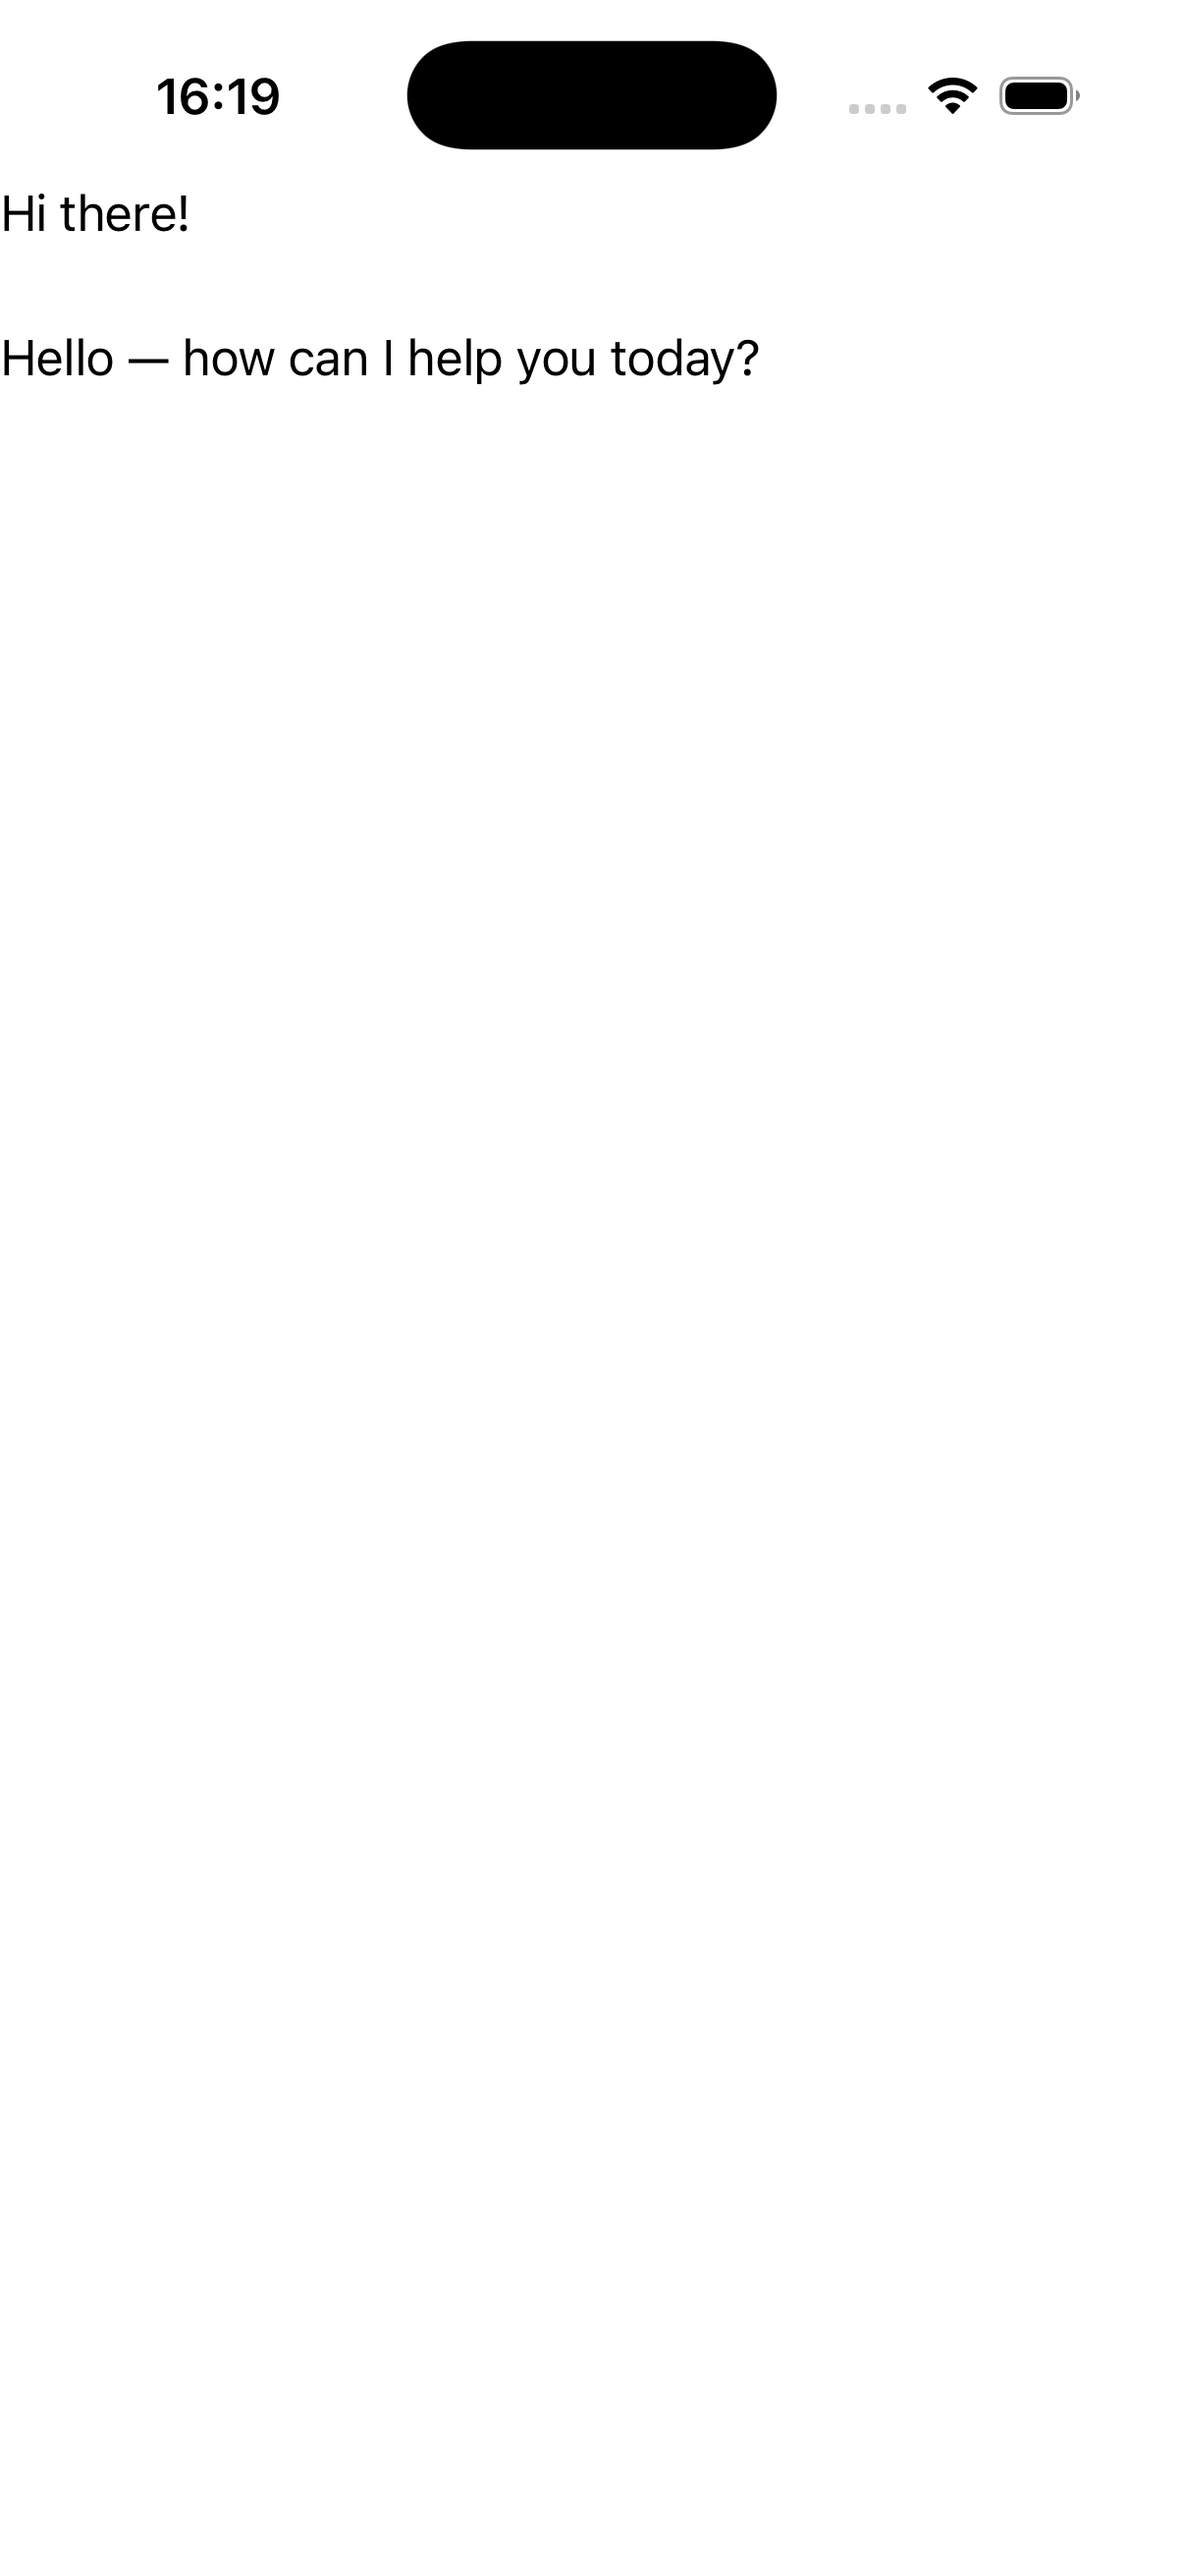
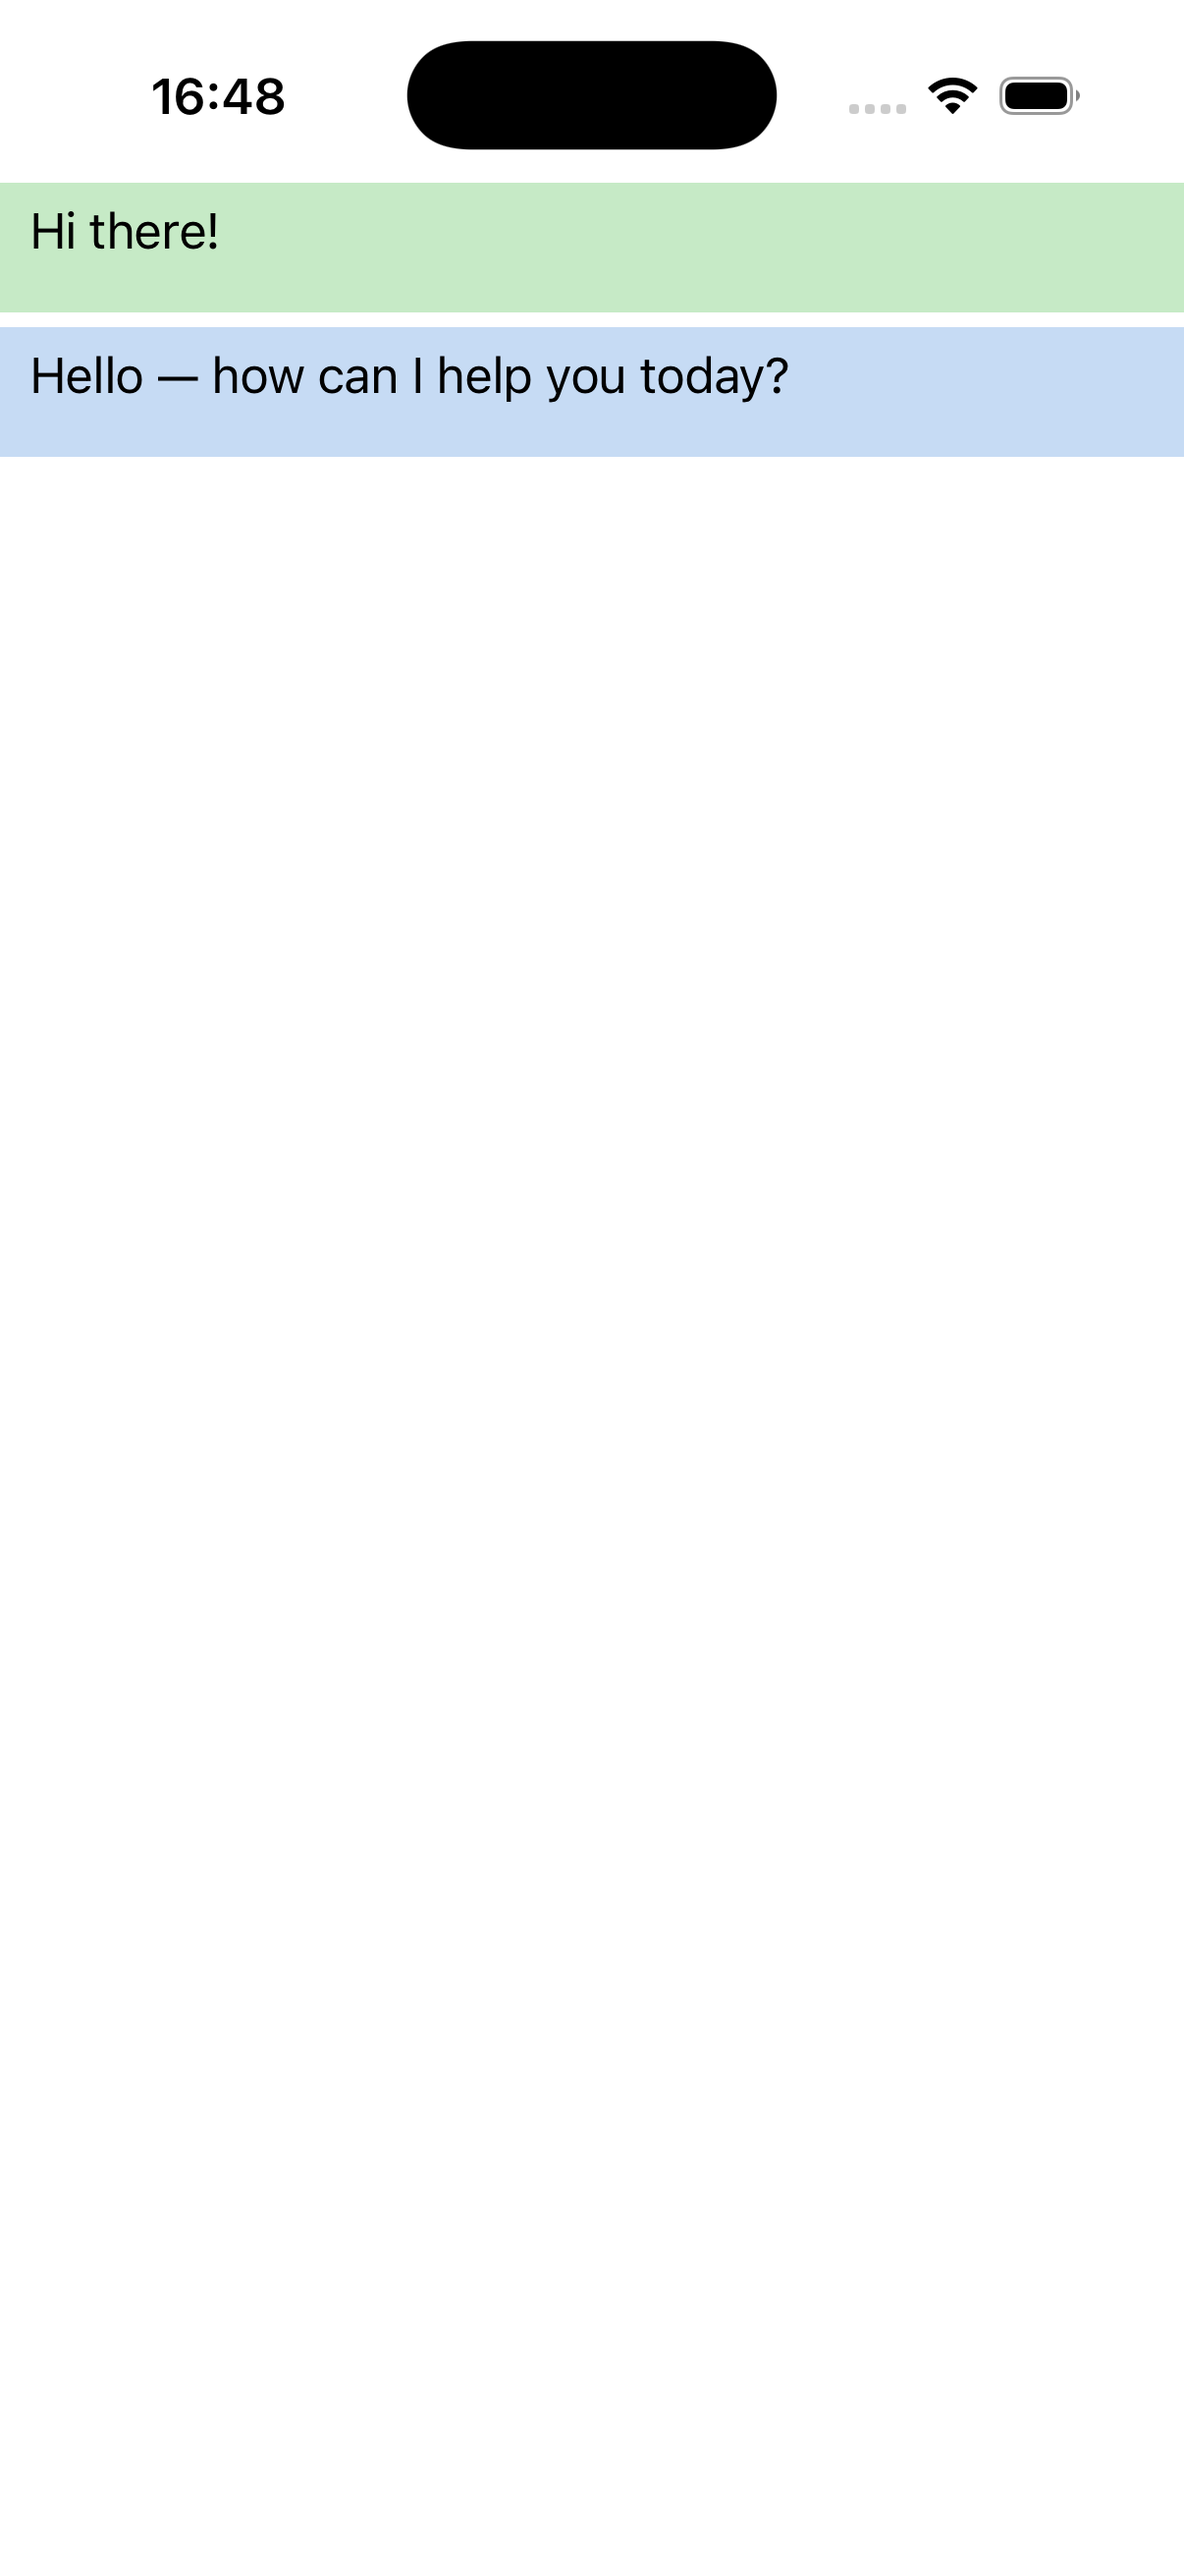
docs(parity): chat_example diff->minor (colored bubbles render via 95d572c90c; compact-shape/alignment a struct-cell template limitation)

Changed region(s): [[0.0, 0.0309, 1.0, 0.1854]]

diff --git a/port/cpp/docs/comparison/README.md b/port/cpp/docs/comparison/README.md
@@ -2,7 +2,7 @@
 
 Theme-matched iOS comparison: each page rendered by **real .NET MAUI** vs the **C++ port**, on the same iPhone 17 simulator, compared **light-vs-light** and **dark-vs-dark**. Both stacks render native-default controls + the system font (the C# app's `dotnet new maui` default `Styles.xaml` + OpenSans are stripped; appearance forced via `MAUI_THEME` / `MAUI_APPEARANCE`). Goal: pixel-perfect parity, fixed example-by-example.
 
-**Progress: 0 / 172 🟢 matched** · 120 🟡 minor · 16 🔴 diff · 36 ⬜ pending
+**Progress: 0 / 172 🟢 matched** · 121 🟡 minor · 15 🔴 diff · 36 ⬜ pending
 
 Status legend: 🟢 pixel-match (both themes) · 🟡 minor diff · 🔴 notable diff to fix · ⬜ not yet reviewed. Per-theme verdicts in `parity_status.json`.
 
@@ -123,7 +123,7 @@ Rows are in **fix order** (top → bottom): foundational single controls first (
 | 109 | Empty View View | 🟡<br>L:minor<br>D:minor | ![](csharp_ios_light/empty_view_view.png) | ![](cpp_ios_light/empty_view_view.png) | ![](csharp_ios_dark/empty_view_view.png) | ![](cpp_ios_dark/empty_view_view.png) |
 | 110 | Empty View Load Simulate | 🟡<br>L:minor<br>D:minor | ![](csharp_ios_light/empty_view_load_simulate.png) | ![](cpp_ios_light/empty_view_load_simulate.png) | ![](csharp_ios_dark/empty_view_load_simulate.png) | ![](cpp_ios_dark/empty_view_load_simulate.png) |
 | 111 | Carousel Page | 🟡<br>L:minor<br>D:minor | ![](csharp_ios_light/carousel_page.png) | ![](cpp_ios_light/carousel_page.png) | ![](csharp_ios_dark/carousel_page.png) | ![](cpp_ios_dark/carousel_page.png) |
-| 112 | Chat Example | 🔴<br>L:diff<br>D:blank | ![](csharp_ios_light/chat_example.png) | ![](cpp_ios_light/chat_example.png) | ![](csharp_ios_dark/chat_example.png) | ![](cpp_ios_dark/chat_example.png) |
+| 112 | Chat Example | 🟡<br>L:minor<br>D:minor | ![](csharp_ios_light/chat_example.png) | ![](cpp_ios_light/chat_example.png) | ![](csharp_ios_dark/chat_example.png) | ![](cpp_ios_dark/chat_example.png) |
 | 113 | Items Updating Scroll Mode | 🟡<br>L:minor<br>D:minor | ![](csharp_ios_light/items_updating_scroll_mode.png) | ![](cpp_ios_light/items_updating_scroll_mode.png) | ![](csharp_ios_dark/items_updating_scroll_mode.png) | ![](cpp_ios_dark/items_updating_scroll_mode.png) |
 | 114 | Radio Button Group | 🟡<br>L:minor<br>D:minor | ![](csharp_ios_light/radio_button_group.png) | ![](cpp_ios_light/radio_button_group.png) | ![](csharp_ios_dark/radio_button_group.png) | ![](cpp_ios_dark/radio_button_group.png) |
 | 115 | Radio Button Group Binding | 🟡<br>L:minor<br>D:minor | ![](csharp_ios_light/radio_button_group_binding.png) | ![](cpp_ios_light/radio_button_group_binding.png) | ![](csharp_ios_dark/radio_button_group_binding.png) | ![](cpp_ios_dark/radio_button_group_binding.png) |
